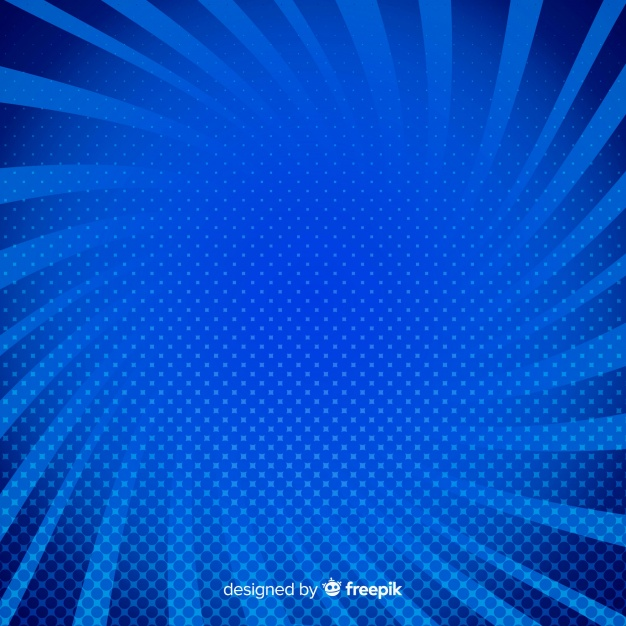
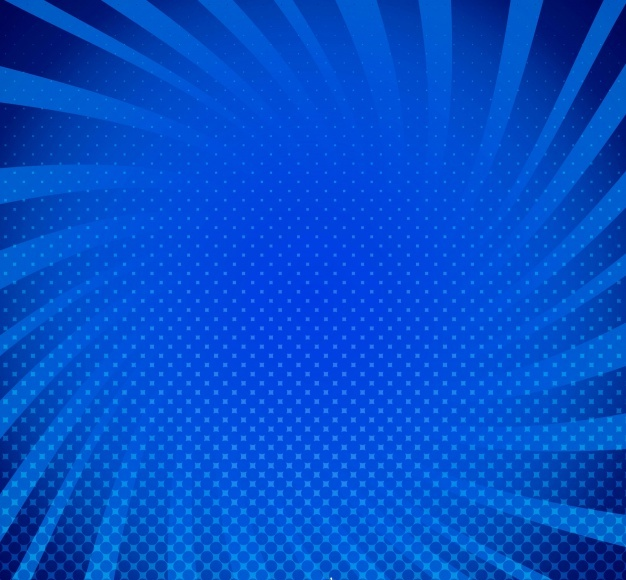
positioned game board, changed background color

Changed region(s): [[0.0, 0.0621, 1.0, 1.0], [0.0, 0.0931, 0.2125, 0.2172], [0.0607, 0.031, 0.2732, 0.1241]]

diff --git a/images/Play_files/w3.css b/images/Play_files/w3.css
@@ -1,0 +1,231 @@
+/* W3.CSS 4.10 February 2018 by Jan Egil and Borge Refsnes */
+html{box-sizing:border-box}*,*:before,*:after{box-sizing:inherit}
+/* Extract from normalize.css by Nicolas Gallagher and Jonathan Neal git.io/normalize */
+html{-ms-text-size-adjust:100%;-webkit-text-size-adjust:100%}body{margin:0}
+article,aside,details,figcaption,figure,footer,header,main,menu,nav,section,summary{display:block}
+audio,canvas,progress,video{display:inline-block}progress{vertical-align:baseline}
+audio:not([controls]){display:none;height:0}[hidden],template{display:none}
+a{background-color:transparent;-webkit-text-decoration-skip:objects}
+a:active,a:hover{outline-width:0}abbr[title]{border-bottom:none;text-decoration:underline;text-decoration:underline dotted}
+dfn{font-style:italic}mark{background:#ff0;color:#000}
+small{font-size:80%}sub,sup{font-size:75%;line-height:0;position:relative;vertical-align:baseline}
+sub{bottom:-0.25em}sup{top:-0.5em}figure{margin:1em 40px}img{border-style:none}svg:not(:root){overflow:hidden}
+code,kbd,pre,samp{font-family:monospace,monospace;font-size:1em}hr{box-sizing:content-box;height:0;overflow:visible}
+button,input,select,textarea{font:inherit;margin:0}optgroup{font-weight:bold}
+button,input{overflow:visible}button,select{text-transform:none}
+button,html [type=button],[type=reset],[type=submit]{-webkit-appearance:button}
+button::-moz-focus-inner, [type=button]::-moz-focus-inner, [type=reset]::-moz-focus-inner, [type=submit]::-moz-focus-inner{border-style:none;padding:0}
+button:-moz-focusring, [type=button]:-moz-focusring, [type=reset]:-moz-focusring, [type=submit]:-moz-focusring{outline:1px dotted ButtonText}
+fieldset{border:1px solid #c0c0c0;margin:0 2px;padding:.35em .625em .75em}
+legend{color:inherit;display:table;max-width:100%;padding:0;white-space:normal}textarea{overflow:auto}
+[type=checkbox],[type=radio]{padding:0}
+[type=number]::-webkit-inner-spin-button,[type=number]::-webkit-outer-spin-button{height:auto}
+[type=search]{-webkit-appearance:textfield;outline-offset:-2px}
+[type=search]::-webkit-search-cancel-button,[type=search]::-webkit-search-decoration{-webkit-appearance:none}
+::-webkit-input-placeholder{color:inherit;opacity:0.54}
+::-webkit-file-upload-button{-webkit-appearance:button;font:inherit}
+/* End extract */
+html,body{font-family:Verdana,sans-serif;font-size:15px;line-height:1.5}html{overflow-x:hidden}
+h1{font-size:36px}h2{font-size:30px}h3{font-size:24px}h4{font-size:20px}h5{font-size:18px}h6{font-size:16px}.w3-serif{font-family:serif}
+h1,h2,h3,h4,h5,h6{font-family:"Segoe UI",Arial,sans-serif;font-weight:400;margin:10px 0}.w3-wide{letter-spacing:4px}
+hr{border:0;border-top:1px solid #eee;margin:20px 0}
+.w3-image{max-width:100%;height:auto}img{vertical-align:middle}a{color:inherit}
+.w3-table,.w3-table-all{border-collapse:collapse;border-spacing:0;width:100%;display:table}.w3-table-all{border:1px solid #ccc}
+.w3-bordered tr,.w3-table-all tr{border-bottom:1px solid #ddd}.w3-striped tbody tr:nth-child(even){background-color:#f1f1f1}
+.w3-table-all tr:nth-child(odd){background-color:#fff}.w3-table-all tr:nth-child(even){background-color:#f1f1f1}
+.w3-hoverable tbody tr:hover,.w3-ul.w3-hoverable li:hover{background-color:#ccc}.w3-centered tr th,.w3-centered tr td{text-align:center}
+.w3-table td,.w3-table th,.w3-table-all td,.w3-table-all th{padding:8px 8px;display:table-cell;text-align:left;vertical-align:top}
+.w3-table th:first-child,.w3-table td:first-child,.w3-table-all th:first-child,.w3-table-all td:first-child{padding-left:16px}
+.w3-btn,.w3-button{border:none;display:inline-block;padding:8px 16px;vertical-align:middle;overflow:hidden;text-decoration:none;color:inherit;background-color:inherit;text-align:center;cursor:pointer;white-space:nowrap}
+.w3-btn:hover{box-shadow:0 8px 16px 0 rgba(0,0,0,0.2),0 6px 20px 0 rgba(0,0,0,0.19)}
+.w3-btn,.w3-button{-webkit-touch-callout:none;-webkit-user-select:none;-khtml-user-select:none;-moz-user-select:none;-ms-user-select:none;user-select:none}   
+.w3-disabled,.w3-btn:disabled,.w3-button:disabled{cursor:not-allowed;opacity:0.3}.w3-disabled *,:disabled *{pointer-events:none}
+.w3-btn.w3-disabled:hover,.w3-btn:disabled:hover{box-shadow:none}
+.w3-badge,.w3-tag{background-color:#000;color:#fff;display:inline-block;padding-left:8px;padding-right:8px;text-align:center}.w3-badge{border-radius:50%}
+.w3-ul{list-style-type:none;padding:0;margin:0}.w3-ul li{padding:8px 16px;border-bottom:1px solid #ddd}.w3-ul li:last-child{border-bottom:none}
+.w3-tooltip,.w3-display-container{position:relative}.w3-tooltip .w3-text{display:none}.w3-tooltip:hover .w3-text{display:inline-block}
+.w3-ripple:active{opacity:0.5}.w3-ripple{transition:opacity 0s}
+.w3-input{padding:8px;display:block;border:none;border-bottom:1px solid #ccc;width:100%}
+.w3-select{padding:9px 0;width:100%;border:none;border-bottom:1px solid #ccc}
+.w3-dropdown-click,.w3-dropdown-hover{position:relative;display:inline-block;cursor:pointer}
+.w3-dropdown-hover:hover .w3-dropdown-content{display:block}
+.w3-dropdown-hover:first-child,.w3-dropdown-click:hover{background-color:#ccc;color:#000}
+.w3-dropdown-hover:hover > .w3-button:first-child,.w3-dropdown-click:hover > .w3-button:first-child{background-color:#ccc;color:#000}
+.w3-dropdown-content{cursor:auto;color:#000;background-color:#fff;display:none;position:absolute;min-width:160px;margin:0;padding:0;z-index:1}
+.w3-check,.w3-radio{width:24px;height:24px;position:relative;top:6px}
+.w3-sidebar{height:100%;width:200px;background-color:#fff;position:fixed!important;z-index:1;overflow:auto}
+.w3-bar-block .w3-dropdown-hover,.w3-bar-block .w3-dropdown-click{width:100%}
+.w3-bar-block .w3-dropdown-hover .w3-dropdown-content,.w3-bar-block .w3-dropdown-click .w3-dropdown-content{min-width:100%}
+.w3-bar-block .w3-dropdown-hover .w3-button,.w3-bar-block .w3-dropdown-click .w3-button{width:100%;text-align:left;padding:8px 16px}
+.w3-main,#main{transition:margin-left .4s}
+.w3-modal{z-index:3;display:none;padding-top:100px;position:fixed;left:0;top:0;width:100%;height:100%;overflow:auto;background-color:rgb(0,0,0);background-color:rgba(0,0,0,0.4)}
+.w3-modal-content{margin:auto;background-color:#fff;position:relative;padding:0;outline:0;width:600px}
+.w3-bar{width:100%;overflow:hidden}.w3-center .w3-bar{display:inline-block;width:auto}
+.w3-bar .w3-bar-item{padding:8px 16px;float:left;width:auto;border:none;display:block;outline:0}
+.w3-bar .w3-dropdown-hover,.w3-bar .w3-dropdown-click{position:static;float:left}
+.w3-bar .w3-button{white-space:normal}
+.w3-bar-block .w3-bar-item{width:100%;display:block;padding:8px 16px;text-align:left;border:none;white-space:normal;float:none;outline:0}
+.w3-bar-block.w3-center .w3-bar-item{text-align:center}.w3-block{display:block;width:100%}
+.w3-responsive{display:block;overflow-x:auto}
+.w3-container:after,.w3-container:before,.w3-panel:after,.w3-panel:before,.w3-row:after,.w3-row:before,.w3-row-padding:after,.w3-row-padding:before,
+.w3-cell-row:before,.w3-cell-row:after,.w3-clear:after,.w3-clear:before,.w3-bar:before,.w3-bar:after{content:"";display:table;clear:both}
+.w3-col,.w3-half,.w3-third,.w3-twothird,.w3-threequarter,.w3-quarter{float:left;width:100%}
+.w3-col.s1{width:8.33333%}.w3-col.s2{width:16.66666%}.w3-col.s3{width:24.99999%}.w3-col.s4{width:33.33333%}
+.w3-col.s5{width:41.66666%}.w3-col.s6{width:49.99999%}.w3-col.s7{width:58.33333%}.w3-col.s8{width:66.66666%}
+.w3-col.s9{width:74.99999%}.w3-col.s10{width:83.33333%}.w3-col.s11{width:91.66666%}.w3-col.s12{width:99.99999%}
+@media (min-width:601px){.w3-col.m1{width:8.33333%}.w3-col.m2{width:16.66666%}.w3-col.m3,.w3-quarter{width:24.99999%}.w3-col.m4,.w3-third{width:33.33333%}
+.w3-col.m5{width:41.66666%}.w3-col.m6,.w3-half{width:49.99999%}.w3-col.m7{width:58.33333%}.w3-col.m8,.w3-twothird{width:66.66666%}
+.w3-col.m9,.w3-threequarter{width:74.99999%}.w3-col.m10{width:83.33333%}.w3-col.m11{width:91.66666%}.w3-col.m12{width:99.99999%}}
+@media (min-width:993px){.w3-col.l1{width:8.33333%}.w3-col.l2{width:16.66666%}.w3-col.l3{width:24.99999%}.w3-col.l4{width:33.33333%}
+.w3-col.l5{width:41.66666%}.w3-col.l6{width:49.99999%}.w3-col.l7{width:58.33333%}.w3-col.l8{width:66.66666%}
+.w3-col.l9{width:74.99999%}.w3-col.l10{width:83.33333%}.w3-col.l11{width:91.66666%}.w3-col.l12{width:99.99999%}}
+.w3-content{max-width:980px;margin:auto}.w3-rest{overflow:hidden}
+.w3-cell-row{display:table;width:100%}.w3-cell{display:table-cell}
+.w3-cell-top{vertical-align:top}.w3-cell-middle{vertical-align:middle}.w3-cell-bottom{vertical-align:bottom}
+.w3-hide{display:none!important}.w3-show-block,.w3-show{display:block!important}.w3-show-inline-block{display:inline-block!important}
+@media (max-width:600px){.w3-modal-content{margin:0 10px;width:auto!important}.w3-modal{padding-top:30px}
+.w3-dropdown-hover.w3-mobile .w3-dropdown-content,.w3-dropdown-click.w3-mobile .w3-dropdown-content{position:relative}	
+.w3-hide-small{display:none!important}.w3-mobile{display:block;width:100%!important}.w3-bar-item.w3-mobile,.w3-dropdown-hover.w3-mobile,.w3-dropdown-click.w3-mobile{text-align:center}
+.w3-dropdown-hover.w3-mobile,.w3-dropdown-hover.w3-mobile .w3-btn,.w3-dropdown-hover.w3-mobile .w3-button,.w3-dropdown-click.w3-mobile,.w3-dropdown-click.w3-mobile .w3-btn,.w3-dropdown-click.w3-mobile .w3-button{width:100%}}
+@media (max-width:768px){.w3-modal-content{width:500px}.w3-modal{padding-top:50px}}
+@media (min-width:993px){.w3-modal-content{width:900px}.w3-hide-large{display:none!important}.w3-sidebar.w3-collapse{display:block!important}}
+@media (max-width:992px) and (min-width:601px){.w3-hide-medium{display:none!important}}
+@media (max-width:992px){.w3-sidebar.w3-collapse{display:none}.w3-main{margin-left:0!important;margin-right:0!important}}
+.w3-top,.w3-bottom{position:fixed;width:100%;z-index:1}.w3-top{top:0}.w3-bottom{bottom:0}
+.w3-overlay{position:fixed;display:none;width:100%;height:100%;top:0;left:0;right:0;bottom:0;background-color:rgba(0,0,0,0.5);z-index:2}
+.w3-display-topleft{position:absolute;left:0;top:0}.w3-display-topright{position:absolute;right:0;top:0}
+.w3-display-bottomleft{position:absolute;left:0;bottom:0}.w3-display-bottomright{position:absolute;right:0;bottom:0}
+.w3-display-middle{position:absolute;top:50%;left:50%;transform:translate(-50%,-50%);-ms-transform:translate(-50%,-50%)}
+.w3-display-left{position:absolute;top:50%;left:0%;transform:translate(0%,-50%);-ms-transform:translate(-0%,-50%)}
+.w3-display-right{position:absolute;top:50%;right:0%;transform:translate(0%,-50%);-ms-transform:translate(0%,-50%)}
+.w3-display-topmiddle{position:absolute;left:50%;top:0;transform:translate(-50%,0%);-ms-transform:translate(-50%,0%)}
+.w3-display-bottommiddle{position:absolute;left:50%;bottom:0;transform:translate(-50%,0%);-ms-transform:translate(-50%,0%)}
+.w3-display-container:hover .w3-display-hover{display:block}.w3-display-container:hover span.w3-display-hover{display:inline-block}.w3-display-hover{display:none}
+.w3-display-position{position:absolute}
+.w3-circle{border-radius:50%}
+.w3-round-small{border-radius:2px}.w3-round,.w3-round-medium{border-radius:4px}.w3-round-large{border-radius:8px}.w3-round-xlarge{border-radius:16px}.w3-round-xxlarge{border-radius:32px}
+.w3-row-padding,.w3-row-padding>.w3-half,.w3-row-padding>.w3-third,.w3-row-padding>.w3-twothird,.w3-row-padding>.w3-threequarter,.w3-row-padding>.w3-quarter,.w3-row-padding>.w3-col{padding:0 8px}
+.w3-container,.w3-panel{padding:0.01em 16px}.w3-panel{margin-top:16px;margin-bottom:16px}
+.w3-code,.w3-codespan{font-family:Consolas,"courier new";font-size:16px}
+.w3-code{width:auto;background-color:#fff;padding:8px 12px;border-left:4px solid #4CAF50;word-wrap:break-word}
+.w3-codespan{color:crimson;background-color:#f1f1f1;padding-left:4px;padding-right:4px;font-size:110%}
+.w3-card,.w3-card-2{box-shadow:0 2px 5px 0 rgba(0,0,0,0.16),0 2px 10px 0 rgba(0,0,0,0.12)}
+.w3-card-4,.w3-hover-shadow:hover{box-shadow:0 4px 10px 0 rgba(0,0,0,0.2),0 4px 20px 0 rgba(0,0,0,0.19)}
+.w3-spin{animation:w3-spin 2s infinite linear}@keyframes w3-spin{0%{transform:rotate(0deg)}100%{transform:rotate(359deg)}}
+.w3-animate-fading{animation:fading 10s infinite}@keyframes fading{0%{opacity:0}50%{opacity:1}100%{opacity:0}}
+.w3-animate-opacity{animation:opac 0.8s}@keyframes opac{from{opacity:0} to{opacity:1}}
+.w3-animate-top{position:relative;animation:animatetop 0.4s}@keyframes animatetop{from{top:-300px;opacity:0} to{top:0;opacity:1}}
+.w3-animate-left{position:relative;animation:animateleft 0.4s}@keyframes animateleft{from{left:-300px;opacity:0} to{left:0;opacity:1}}
+.w3-animate-right{position:relative;animation:animateright 0.4s}@keyframes animateright{from{right:-300px;opacity:0} to{right:0;opacity:1}}
+.w3-animate-bottom{position:relative;animation:animatebottom 0.4s}@keyframes animatebottom{from{bottom:-300px;opacity:0} to{bottom:0;opacity:1}}
+.w3-animate-zoom {animation:animatezoom 0.6s}@keyframes animatezoom{from{transform:scale(0)} to{transform:scale(1)}}
+.w3-animate-input{transition:width 0.4s ease-in-out}.w3-animate-input:focus{width:100%!important}
+.w3-opacity,.w3-hover-opacity:hover{opacity:0.60}.w3-opacity-off,.w3-hover-opacity-off:hover{opacity:1}
+.w3-opacity-max{opacity:0.25}.w3-opacity-min{opacity:0.75}
+.w3-greyscale-max,.w3-grayscale-max,.w3-hover-greyscale:hover,.w3-hover-grayscale:hover{filter:grayscale(100%)}
+.w3-greyscale,.w3-grayscale{filter:grayscale(75%)}.w3-greyscale-min,.w3-grayscale-min{filter:grayscale(50%)}
+.w3-sepia{filter:sepia(75%)}.w3-sepia-max,.w3-hover-sepia:hover{filter:sepia(100%)}.w3-sepia-min{filter:sepia(50%)}
+.w3-tiny{font-size:10px!important}.w3-small{font-size:12px!important}.w3-medium{font-size:15px!important}.w3-large{font-size:18px!important}
+.w3-xlarge{font-size:24px!important}.w3-xxlarge{font-size:36px!important}.w3-xxxlarge{font-size:48px!important}.w3-jumbo{font-size:64px!important}
+.w3-left-align{text-align:left!important}.w3-right-align{text-align:right!important}.w3-justify{text-align:justify!important}.w3-center{text-align:center!important}
+.w3-border-0{border:0!important}.w3-border{border:1px solid #ccc!important}
+.w3-border-top{border-top:1px solid #ccc!important}.w3-border-bottom{border-bottom:1px solid #ccc!important}
+.w3-border-left{border-left:1px solid #ccc!important}.w3-border-right{border-right:1px solid #ccc!important}
+.w3-topbar{border-top:6px solid #ccc!important}.w3-bottombar{border-bottom:6px solid #ccc!important}
+.w3-leftbar{border-left:6px solid #ccc!important}.w3-rightbar{border-right:6px solid #ccc!important}
+.w3-section,.w3-code{margin-top:16px!important;margin-bottom:16px!important}
+.w3-margin{margin:16px!important}.w3-margin-top{margin-top:16px!important}.w3-margin-bottom{margin-bottom:16px!important}
+.w3-margin-left{margin-left:16px!important}.w3-margin-right{margin-right:16px!important}
+.w3-padding-small{padding:4px 8px!important}.w3-padding{padding:8px 16px!important}.w3-padding-large{padding:12px 24px!important}
+.w3-padding-16{padding-top:16px!important;padding-bottom:16px!important}.w3-padding-24{padding-top:24px!important;padding-bottom:24px!important}
+.w3-padding-32{padding-top:32px!important;padding-bottom:32px!important}.w3-padding-48{padding-top:48px!important;padding-bottom:48px!important}
+.w3-padding-64{padding-top:64px!important;padding-bottom:64px!important}
+.w3-left{float:left!important}.w3-right{float:right!important}
+.w3-button:hover{color:#000!important;background-color:#ccc!important}
+.w3-transparent,.w3-hover-none:hover{background-color:transparent!important}
+.w3-hover-none:hover{box-shadow:none!important}
+/* Colors */
+.w3-amber,.w3-hover-amber:hover{color:#000!important;background-color:#ffc107!important}
+.w3-aqua,.w3-hover-aqua:hover{color:#000!important;background-color:#00ffff!important}
+.w3-blue,.w3-hover-blue:hover{color:#fff!important;background-color:#2196F3!important}
+.w3-light-blue,.w3-hover-light-blue:hover{color:#000!important;background-color:#87CEEB!important}
+.w3-brown,.w3-hover-brown:hover{color:#fff!important;background-color:#795548!important}
+.w3-cyan,.w3-hover-cyan:hover{color:#000!important;background-color:#00bcd4!important}
+.w3-blue-grey,.w3-hover-blue-grey:hover,.w3-blue-gray,.w3-hover-blue-gray:hover{color:#fff!important;background-color:#607d8b!important}
+.w3-green,.w3-hover-green:hover{color:#fff!important;background-color:#4CAF50!important}
+.w3-light-green,.w3-hover-light-green:hover{color:#000!important;background-color:#8bc34a!important}
+.w3-indigo,.w3-hover-indigo:hover{color:#fff!important;background-color:#3f51b5!important}
+.w3-khaki,.w3-hover-khaki:hover{color:#000!important;background-color:#f0e68c!important}
+.w3-lime,.w3-hover-lime:hover{color:#000!important;background-color:#cddc39!important}
+.w3-orange,.w3-hover-orange:hover{color:#000!important;background-color:#ff9800!important}
+.w3-deep-orange,.w3-hover-deep-orange:hover{color:#fff!important;background-color:#ff5722!important}
+.w3-pink,.w3-hover-pink:hover{color:#fff!important;background-color:#e91e63!important}
+.w3-purple,.w3-hover-purple:hover{color:#fff!important;background-color:#9c27b0!important}
+.w3-deep-purple,.w3-hover-deep-purple:hover{color:#fff!important;background-color:#673ab7!important}
+.w3-red,.w3-hover-red:hover{color:#fff!important;background-color:#f44336!important}
+.w3-sand,.w3-hover-sand:hover{color:#000!important;background-color:#fdf5e6!important}
+.w3-teal,.w3-hover-teal:hover{color:#fff!important;background-color:#009688!important}
+.w3-yellow,.w3-hover-yellow:hover{color:#000!important;background-color:#ffeb3b!important}
+.w3-white,.w3-hover-white:hover{color:#000!important;background-color:#fff!important}
+.w3-black,.w3-hover-black:hover{color:#fff!important;background-color:#000!important}
+.w3-grey,.w3-hover-grey:hover,.w3-gray,.w3-hover-gray:hover{color:#000!important;background-color:#9e9e9e!important}
+.w3-light-grey,.w3-hover-light-grey:hover,.w3-light-gray,.w3-hover-light-gray:hover{color:#000!important;background-color:#f1f1f1!important}
+.w3-dark-grey,.w3-hover-dark-grey:hover,.w3-dark-gray,.w3-hover-dark-gray:hover{color:#fff!important;background-color:#616161!important}
+.w3-pale-red,.w3-hover-pale-red:hover{color:#000!important;background-color:#ffdddd!important}
+.w3-pale-green,.w3-hover-pale-green:hover{color:#000!important;background-color:#ddffdd!important}
+.w3-pale-yellow,.w3-hover-pale-yellow:hover{color:#000!important;background-color:#ffffcc!important}
+.w3-pale-blue,.w3-hover-pale-blue:hover{color:#000!important;background-color:#ddffff!important}
+.w3-text-amber,.w3-hover-text-amber:hover{color:#ffc107!important}
+.w3-text-aqua,.w3-hover-text-aqua:hover{color:#00ffff!important}
+.w3-text-blue,.w3-hover-text-blue:hover{color:#2196F3!important}
+.w3-text-light-blue,.w3-hover-text-light-blue:hover{color:#87CEEB!important}
+.w3-text-brown,.w3-hover-text-brown:hover{color:#795548!important}
+.w3-text-cyan,.w3-hover-text-cyan:hover{color:#00bcd4!important}
+.w3-text-blue-grey,.w3-hover-text-blue-grey:hover,.w3-text-blue-gray,.w3-hover-text-blue-gray:hover{color:#607d8b!important}
+.w3-text-green,.w3-hover-text-green:hover{color:#4CAF50!important}
+.w3-text-light-green,.w3-hover-text-light-green:hover{color:#8bc34a!important}
+.w3-text-indigo,.w3-hover-text-indigo:hover{color:#3f51b5!important}
+.w3-text-khaki,.w3-hover-text-khaki:hover{color:#b4aa50!important}
+.w3-text-lime,.w3-hover-text-lime:hover{color:#cddc39!important}
+.w3-text-orange,.w3-hover-text-orange:hover{color:#ff9800!important}
+.w3-text-deep-orange,.w3-hover-text-deep-orange:hover{color:#ff5722!important}
+.w3-text-pink,.w3-hover-text-pink:hover{color:#e91e63!important}
+.w3-text-purple,.w3-hover-text-purple:hover{color:#9c27b0!important}
+.w3-text-deep-purple,.w3-hover-text-deep-purple:hover{color:#673ab7!important}
+.w3-text-red,.w3-hover-text-red:hover{color:#f44336!important}
+.w3-text-sand,.w3-hover-text-sand:hover{color:#fdf5e6!important}
+.w3-text-teal,.w3-hover-text-teal:hover{color:#009688!important}
+.w3-text-yellow,.w3-hover-text-yellow:hover{color:#d2be0e!important}
+.w3-text-white,.w3-hover-text-white:hover{color:#fff!important}
+.w3-text-black,.w3-hover-text-black:hover{color:#000!important}
+.w3-text-grey,.w3-hover-text-grey:hover,.w3-text-gray,.w3-hover-text-gray:hover{color:#757575!important}
+.w3-text-light-grey,.w3-hover-text-light-grey:hover,.w3-text-light-gray,.w3-hover-text-light-gray:hover{color:#f1f1f1!important}
+.w3-text-dark-grey,.w3-hover-text-dark-grey:hover,.w3-text-dark-gray,.w3-hover-text-dark-gray:hover{color:#3a3a3a!important}
+.w3-border-amber,.w3-hover-border-amber:hover{border-color:#ffc107!important}
+.w3-border-aqua,.w3-hover-border-aqua:hover{border-color:#00ffff!important}
+.w3-border-blue,.w3-hover-border-blue:hover{border-color:#2196F3!important}
+.w3-border-light-blue,.w3-hover-border-light-blue:hover{border-color:#87CEEB!important}
+.w3-border-brown,.w3-hover-border-brown:hover{border-color:#795548!important}
+.w3-border-cyan,.w3-hover-border-cyan:hover{border-color:#00bcd4!important}
+.w3-border-blue-grey,.w3-hover-border-blue-grey:hover,.w3-border-blue-gray,.w3-hover-border-blue-gray:hover{border-color:#607d8b!important}
+.w3-border-green,.w3-hover-border-green:hover{border-color:#4CAF50!important}
+.w3-border-light-green,.w3-hover-border-light-green:hover{border-color:#8bc34a!important}
+.w3-border-indigo,.w3-hover-border-indigo:hover{border-color:#3f51b5!important}
+.w3-border-khaki,.w3-hover-border-khaki:hover{border-color:#f0e68c!important}
+.w3-border-lime,.w3-hover-border-lime:hover{border-color:#cddc39!important}
+.w3-border-orange,.w3-hover-border-orange:hover{border-color:#ff9800!important}
+.w3-border-deep-orange,.w3-hover-border-deep-orange:hover{border-color:#ff5722!important}
+.w3-border-pink,.w3-hover-border-pink:hover{border-color:#e91e63!important}
+.w3-border-purple,.w3-hover-border-purple:hover{border-color:#9c27b0!important}
+.w3-border-deep-purple,.w3-hover-border-deep-purple:hover{border-color:#673ab7!important}
+.w3-border-red,.w3-hover-border-red:hover{border-color:#f44336!important}
+.w3-border-sand,.w3-hover-border-sand:hover{border-color:#fdf5e6!important}
+.w3-border-teal,.w3-hover-border-teal:hover{border-color:#009688!important}
+.w3-border-yellow,.w3-hover-border-yellow:hover{border-color:#ffeb3b!important}
+.w3-border-white,.w3-hover-border-white:hover{border-color:#fff!important}
+.w3-border-black,.w3-hover-border-black:hover{border-color:#000!important}
+.w3-border-grey,.w3-hover-border-grey:hover,.w3-border-gray,.w3-hover-border-gray:hover{border-color:#9e9e9e!important}
+.w3-border-light-grey,.w3-hover-border-light-grey:hover,.w3-border-light-gray,.w3-hover-border-light-gray:hover{border-color:#f1f1f1!important}
+.w3-border-dark-grey,.w3-hover-border-dark-grey:hover,.w3-border-dark-gray,.w3-hover-border-dark-gray:hover{border-color:#616161!important}
+.w3-border-pale-red,.w3-hover-border-pale-red:hover{border-color:#ffe7e7!important}.w3-border-pale-green,.w3-hover-border-pale-green:hover{border-color:#e7ffe7!important}
+.w3-border-pale-yellow,.w3-hover-border-pale-yellow:hover{border-color:#ffffcc!important}.w3-border-pale-blue,.w3-hover-border-pale-blue:hover{border-color:#e7ffff!important}

diff --git a/images/Play.htm b/images/Play.htm
@@ -1,20 +1,19 @@
 <!DOCTYPE html>
-<html lang="en">
-
-<head>
-    <meta charset="UTF-8">
+<!-- saved from url=(0075)file:///Users/jdiperi88/Desktop/saidas_projects/RockPaperScissors/play.html -->
+<html lang="en"><head><meta http-equiv="Content-Type" content="text/html; charset=UTF-8">
+    
     <meta name="viewport" content="width=device-width, initial-scale=1.0">
     <meta http-equiv="X-UA-Compatible" content="ie=edge">
     <title>Play</title>
-    <link rel="stylesheet" type="text/css" href="style.css">
-    <link rel="stylesheet" href="https://www.w3schools.com/w3css/4/w3.css">
-    <link rel="stylesheet" href="https://cdnjs.cloudflare.com/ajax/libs/font-awesome/4.7.0/css/font-awesome.min.css">
+    <link rel="stylesheet" type="text/css" href="./Play_files/style.css">
+    <link rel="stylesheet" href="./Play_files/w3.css">
+    <link rel="stylesheet" href="./Play_files/font-awesome.min.css">
 </head>
 
 <body>
     <div id="game-body-flex">
         <div class="w3-xxxlarge">
-            <a href="index.html">
+            <a href="file:///Users/jdiperi88/Desktop/saidas_projects/RockPaperScissors/index.html">
                 <i class="fa fa-home"></i>
             </a>
         </div>
@@ -23,7 +22,7 @@
             <div>
                 <div>
                     <h2 style="background: blue">0</h2>
-                    <h2 class="player1" style="background: green"></h2>
+                    <h2 class="player1" style="background: green">Ziyoda</h2>
                     <h2 class="player1" style="background:blue"></h2>
                 </div>
                 <div>
@@ -42,13 +41,13 @@
         <div class="plyr2"></div>
     </div>
     <div class="pick-btn">
-        <img src="images/rock-click.png" alt="rock" height="50" width="50">
-        <img src="images/paper-click.png" alt="paper" height="50" width="50">
-        <img src="images/scissors-click.png" alt="scissors-click" height="50" width="50">
+        <img src="./Play_files/rock-click.png" alt="rock" height="50" width="50">
+        <img src="./Play_files/paper-click.png" alt="paper" height="50" width="50">
+        <img src="./Play_files/scissors-click.png" alt="scissors-click" height="50" width="50">
     </div>
-    <script src="play.js">
+    <script src="./Play_files/play.js">
     </script>
 
-</body>
 
-</html>
+
+</body></html>

diff --git a/images/Play_files/style.css b/images/Play_files/style.css
@@ -156,9 +156,6 @@ body {
     margin: 0% auto;
 }
 
-.background-playground {
-    background-image: url("images/blue-halftone-comic-background_23-2147912594.jpg");
-}
 .box1 {
     background: rgba(105, 105, 105, 0.5);
     display: inline-block;

diff --git a/images/Play_files/play.js b/images/Play_files/play.js
@@ -1,0 +1,5 @@
+document.addEventListener("DOMContentLoaded", function() {
+    let NAME = localStorage.getItem("Name");
+    let PLAYERNAME = document.querySelector(".player1");
+    PLAYERNAME.innerHTML = NAME;
+});
